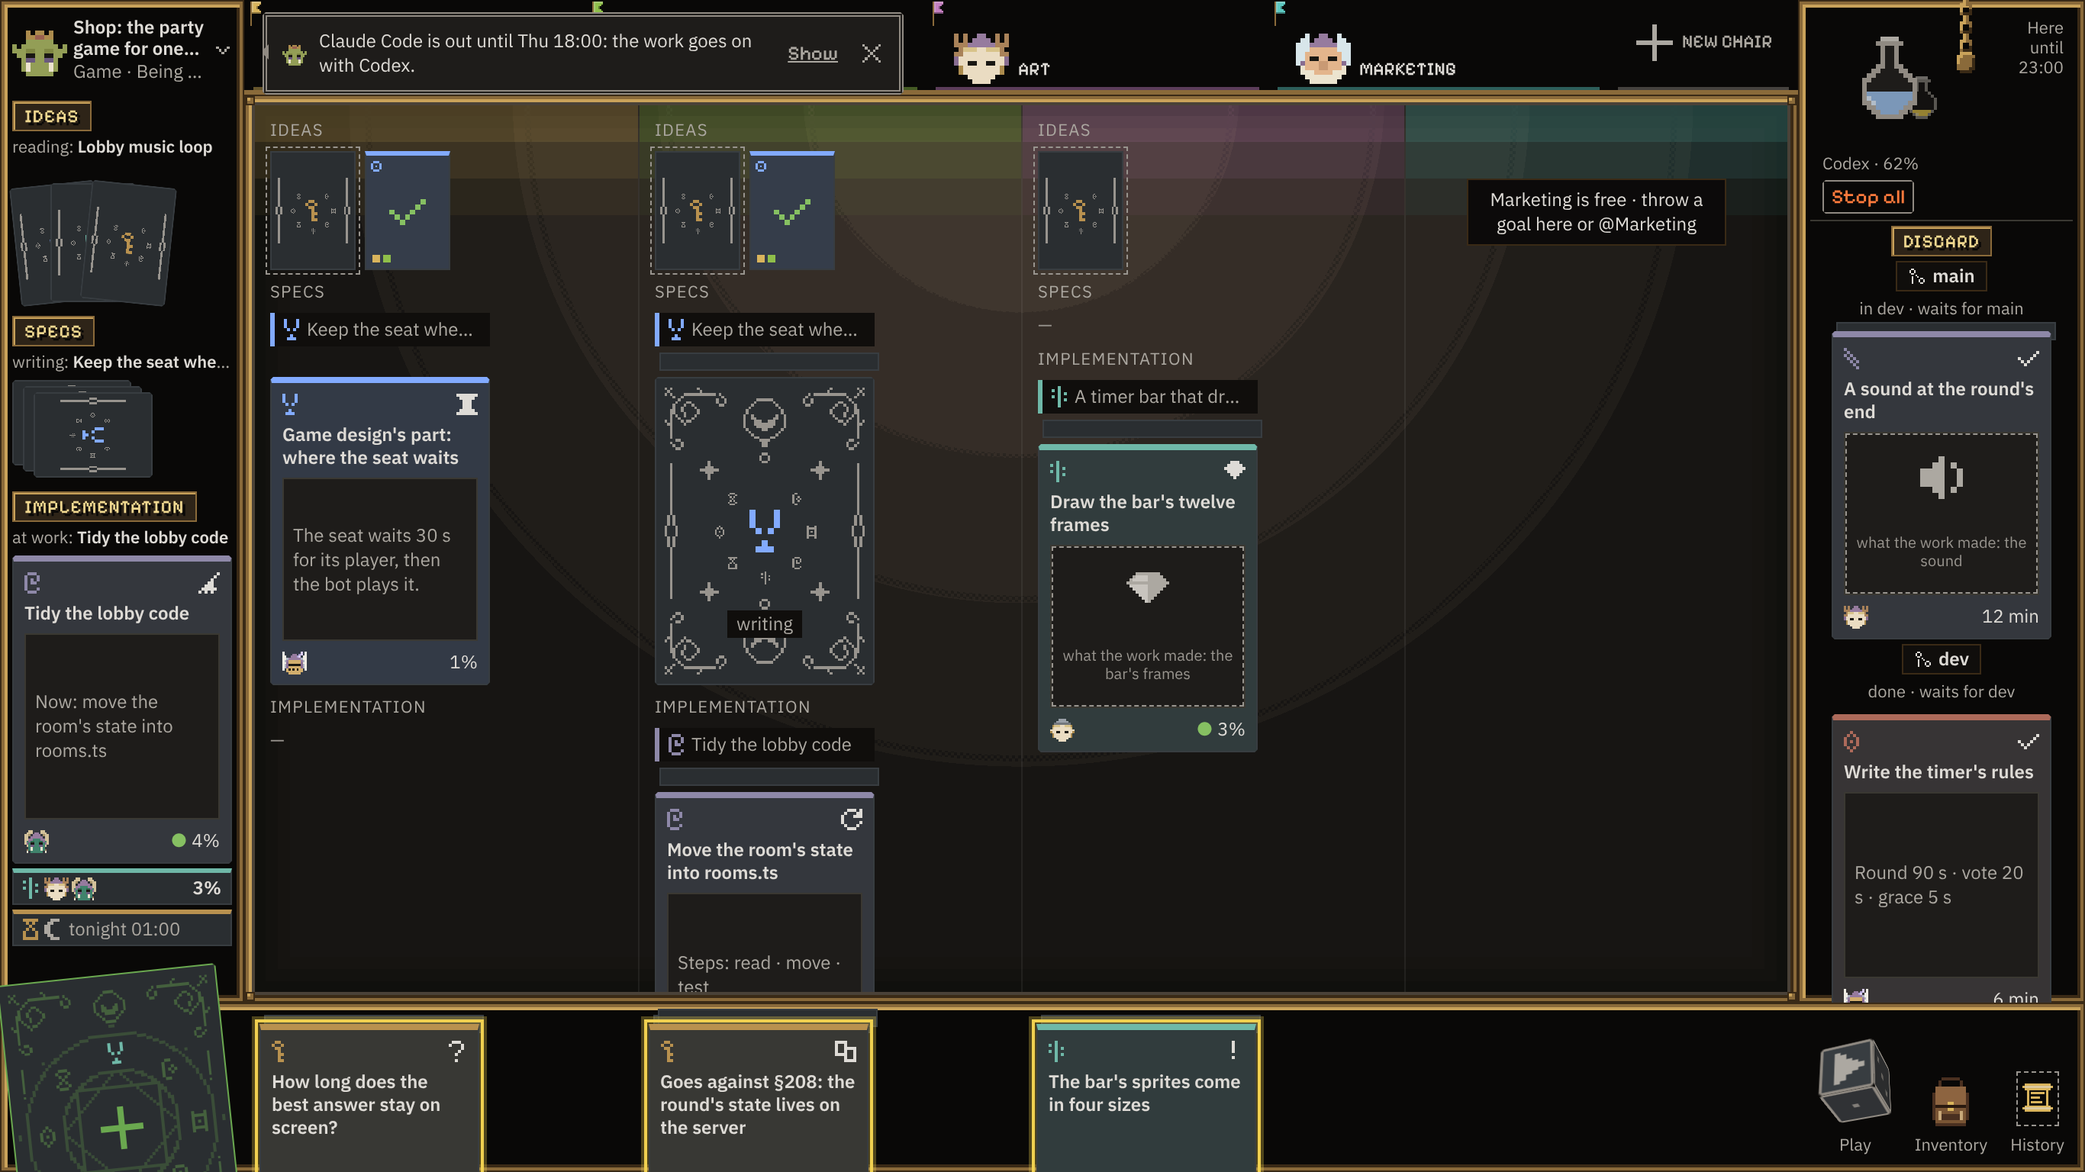
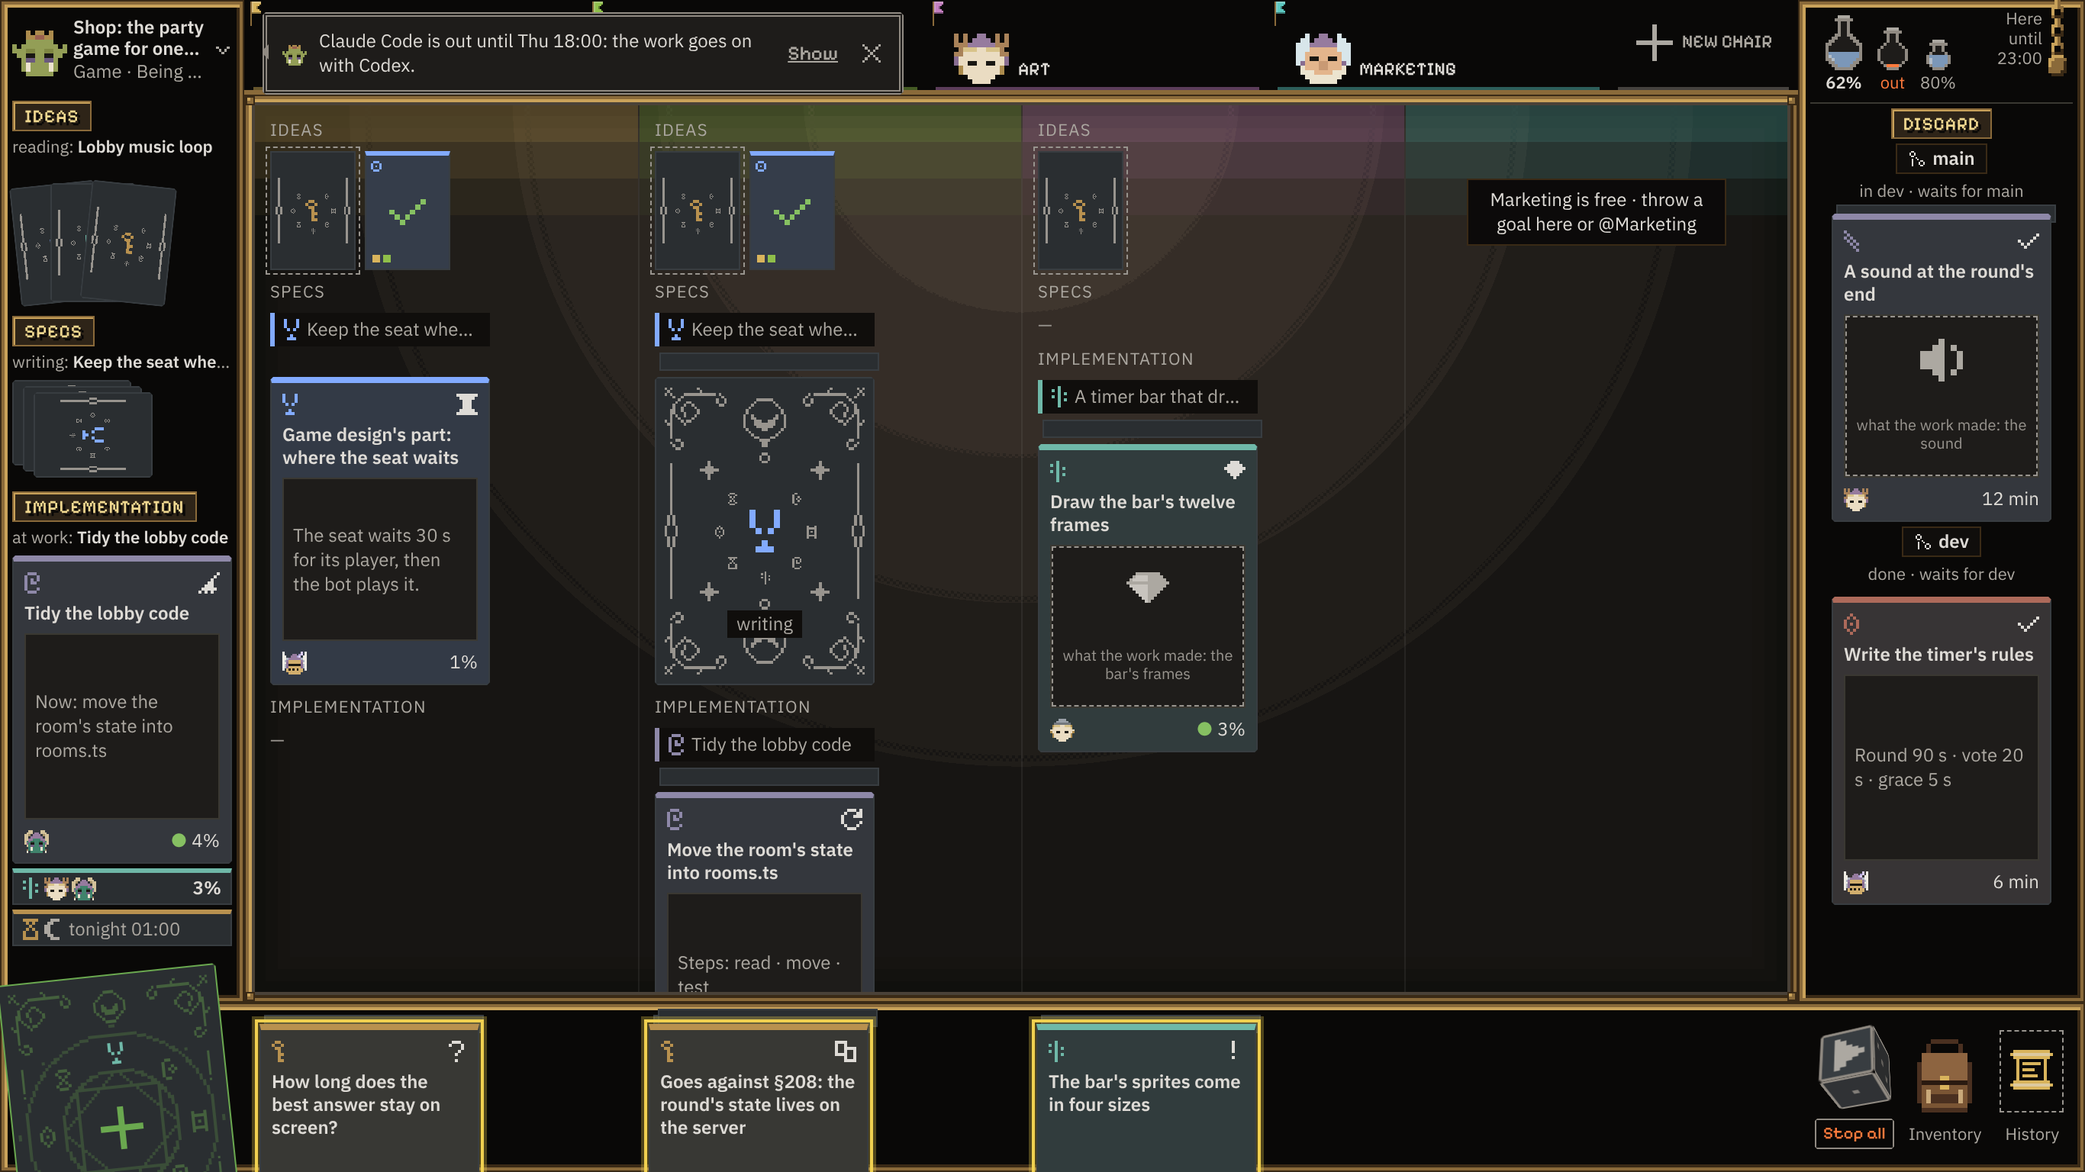
Decision §284 and the mockup as the owner picked it
An idea through a leader in one row of three groups; the small card's first
face; the potions in a row again at the right column's head with the lamp's
chain at its edge; Stop all the die's word again, lit while a card is lifted;
the die, the backpack and the book of one size. The mockup's shots made again;
CLAUDE.md's frame follows.

Claude-Session: https://claude.ai/code/session_01MCU3dkjk4VFQ6HDV7ojgAL

Changed region(s): [[0.8712, 0.0, 0.9956, 0.6875], [0.8712, 0.7188, 0.9956, 1.0]]

diff --git a/docs/mockups/table-template/table-template.js b/docs/mockups/table-template/table-template.js
@@ -170,10 +170,11 @@ function leaderTable() {   // §283.16.2: Tech's project: the header in three gr
 
 // ---- the right column (§283.7, §283.27): the head what never changes the table, then the discard's two piles ------------
 function rightColumn() {
-  const drum = `<span class="ork-drum" style="--ork-drum-front:0" aria-hidden="true"><span class="ork-potion" style="--ork-drum-at:0;--ork-potion-left:0.62"></span><span class="ork-potion size-medium is-warn" style="--ork-drum-at:1;--ork-potion-left:0.18"></span><span class="ork-potion size-small" style="--ork-drum-at:2;--ork-potion-left:0.8"></span></span>`;
+  // a row of potions again (§284.3): the bottle's size the week, its liquid the 5 hours (§192), its share now under it; three at most
+  const pot = (tool, left, share, cls = "") => `<figure class="pot${cls.includes("is-front") ? " is-front" : ""}" title="${tool}: ${share}"><span class="ork-potion small ${cls}" style="--ork-potion-left:${left}" aria-hidden="true"></span><figcaption>${share}</figcaption></figure>`;
+  const pots = `<div class="pots">${pot("Codex, where the work goes now", 0.62, "62%", "is-front")}${pot("Claude Code, back Thu 18:00", 0.02, "out", "size-medium is-danger")}${pot("Antigravity", 0.8, "80%", "size-small")}</div>`;
   return `<aside class="right bronze" aria-label="The discard">
-    <div class="rhead"><div class="rh-power">${drum}<span class="rh-share">Codex · 62%</span><button class="ork-btn stop" type="button">Stop all</button></div>
-      <div class="rh-lamp"><span class="ork-chain" aria-hidden="true"></span><span class="rh-here">Here<br>until 23:00</span></div></div>
+    <div class="rhead">${pots}<div class="rh-lamp"><span class="rh-here">Here<br>until 23:00</span><span class="ork-chain" aria-hidden="true"></span></div></div>
     <span class="ork-plaque disc">Discard</span>
     <div class="pile2"><button class="ork-plate branch" type="button" title="Where it goes: press to choose the branch">${icon("git-merge")}main</button><span class="pile2-line">in dev · waits for main</span>
       <div class="pile2-cards">${edges(1)}${big("sound", { kind: "check", title: G.sound.t, win: pic("sound", "what the work made: the sound"), who: head(L.art.head, "hd16"), much: "12 min" })}</div></div>
@@ -194,7 +195,8 @@ function hand(ways) {
   const plus = `<button class="ork-card ork-plus hplus" aria-label="New goal" title="New goal"><span class="ork-sigil" aria-hidden="true"><span class="ork-sigil__seal"><span class="ork-elem meadow" aria-hidden="true"></span></span></span>${icon("plus")}</button>`;
   const die = `<span class="ork-die small face-play" aria-hidden="true"><span class="ork-die__cube"><i class="ork-die__face is-up"></i><i class="ork-die__face is-front"></i><i class="ork-die__face is-right"></i><i class="ork-die__face is-back"></i><i class="ork-die__face is-left"></i><i class="ork-die__face is-down"></i></span></span>`;
   const book = `<span class="book" aria-hidden="true">${sign("page", "big")}</span>`;
-  const end = `<div class="h-end"><figure>${die}<figcaption>Play</figcaption></figure><figure><span class="ork-pack" aria-hidden="true"></span><figcaption>Inventory</figcaption></figure><figure>${book}<figcaption>History</figcaption></figure></div>`;
+  // the places, one size (§284.5); the die's word is Stop all while the orks work, live even while a card is lifted (§284.4)
+  const end = `<div class="h-end${ways ? " is-lifting" : ""}"><figure><span class="place">${die}</span><button class="ork-btn stop" type="button" title="Stop every run of this project's orks">Stop all</button></figure><figure><span class="place"><span class="ork-pack" aria-hidden="true"></span></span><figcaption>Inventory</figcaption></figure><figure><span class="place">${book}</span><figcaption>History</figcaption></figure></div>`;
   const row = `<div class="h-lanes lanes-grid${ways ? " is-sunk" : ""}">${ORDER.map((p) => `<div class="stack">${stacks[p] ? edges(p === "tech" ? 2 : 1) + stacks[p] : ""}</div>`).join("")}</div>`;
   return `<footer class="hand bronze${ways ? " has-ways" : ""}" aria-label="The hand"><div class="h-plus${ways ? " is-sunk" : ""}">${plus}</div>${row}${ways || ""}${end}</footer>`;
 }

diff --git a/docs/mockups/table-template/table-template.css b/docs/mockups/table-template/table-template.css
@@ -149,12 +149,14 @@ p { margin: 0; }
 
 /* ---- the right column: its head what never changes the table; the discard's two piles ---- */
 .right { grid-column: 3; grid-row: 1; display: flex; flex-direction: column; align-items: center; gap: 3px; padding: 0 8px 8px; overflow: hidden; }
-.rhead { flex: none; position: relative; align-self: stretch; display: flex; justify-content: space-between; min-height: 84px; padding: 6px 6px 4px 8px; border-bottom: 1px solid var(--ork-frame); }
-.rh-power { display: grid; justify-items: start; gap: 3px; }
-.rh-share { font: var(--ork-type-caption); font-size: 11px; color: var(--ork-ink-muted); }
-.ork-btn.stop { color: var(--ork-danger); padding: 0 6px; height: 22px; }
-.rh-lamp { display: flex; gap: 4px; align-items: flex-start; margin-top: -8px; }
-.rh-here { padding-top: 14px; font: var(--ork-type-caption); font-size: 11px; line-height: 13px; text-align: right; color: var(--ork-ink-muted); }
+.rhead { flex: none; position: relative; align-self: stretch; display: flex; justify-content: space-between; align-items: flex-start; min-height: 68px; padding: 6px 4px 4px 8px; border-bottom: 1px solid var(--ork-frame); }
+.pots { display: flex; gap: 6px; align-items: flex-end; padding-top: 4px; }
+.pot { margin: 0; display: grid; justify-items: center; gap: 2px; }
+.pot figcaption { font: var(--ork-type-caption); font-size: 11px; line-height: 13px; color: var(--ork-ink-muted); }
+.pot.is-front figcaption { color: var(--ork-ink); font-weight: 600; }
+.pot .is-danger + figcaption, .pot:has(.is-danger) figcaption { color: var(--ork-danger); }
+.rh-lamp { display: flex; gap: 4px; align-items: flex-start; margin-top: -6px; }
+.rh-here { padding: 6px 0 0 10px; font: var(--ork-type-caption); font-size: 11px; line-height: 13px; text-align: right; color: var(--ork-ink-muted); }
 .disc { font: var(--ork-type-heading); font-size: 12px; }
 .pile2 { flex: none; display: grid; justify-items: center; gap: 3px; }
 .branch { display: inline-flex; align-items: center; gap: 4px; font: var(--ork-type-label); padding: 2px 8px; border: 0; cursor: pointer; color: var(--ork-ink); }
@@ -171,11 +173,15 @@ p { margin: 0; }
 .stack { position: relative; padding: 12px 10px 0; }
 .stack .edges { margin-top: 2px; }
 .hc .hc-who { margin-top: auto; }
-.h-end { grid-column: 3; display: flex; justify-content: space-around; align-items: flex-end; padding: 0 6px 10px; }
+.h-end { grid-column: 3; display: flex; justify-content: space-around; align-items: flex-start; padding: 12px 6px 0; }
 .h-end figure { margin: 0; display: grid; justify-items: center; gap: 4px; }
-.h-end figcaption { font: var(--ork-type-caption); font-size: 11px; color: var(--ork-ink-muted); }
-.book { display: grid; place-items: center; width: 28px; height: 36px; border: 1px dashed var(--ork-ink-faint); color: var(--ork-gilt); }
-.book .ork-sign.big { width: 20px; height: 20px; }
+.h-end figcaption { font: var(--ork-type-caption); font-size: 11px; line-height: 20px; color: var(--ork-ink-muted); }
+.place { display: grid; place-items: end center; width: 48px; height: 60px; }
+.place .ork-pack { --_n: 3; }
+.ork-btn.stop { color: var(--ork-danger); padding: 0 6px; height: 20px; font-size: 11px; }
+.h-end.is-lifting .place, .h-end.is-lifting figcaption { filter: grayscale(1); opacity: 0.45; }
+.book { display: grid; place-items: center; width: 42px; height: 54px; border: 1px dashed var(--ork-ink-faint); color: var(--ork-gilt); }
+.book .ork-sign.big { width: 28px; height: 28px; }
 .is-sunk { filter: grayscale(1); opacity: 0.45; }
 .hand.has-ways .h-lanes.is-sunk { transform: scale(0.3); transform-origin: 100% 100%; }
 .ways { position: absolute; left: 170px; bottom: 0; height: 160px; display: flex; gap: 10px; align-items: flex-start; z-index: 7; }

diff --git a/docs/mockups/table-template/README.md b/docs/mockups/table-template/README.md
@@ -14,24 +14,24 @@ Pictures: `shots/`, made by `shoot.py`, each at 1366 × 768 (the laptop the deci
 
 | shot | scene | what it shows (§283) |
 |---|---|---|
-| `1-project`, `1-project-900` | `?scene=project` | **The Orkmaster's project**, with nothing picked (16.1): a lane for each leader, with the ideas it is assessing now as small cards, then its specs' cascade and its implementation's. The column's three piles (11–13): *Ideas* as a denser fan turned like a hand's, *Specs* as small cards on their side in a deck, *Implementation* as big cards with the feet of those behind (one held for the night, at the foot). The right column (7): its head holds the drum, *Stop all* and the lamp's chain; under it the discard's two piles, each under its branch's plate (27). The hand's right end holds the die, the backpack and the book. |
+| `1-project`, `1-project-900` | `?scene=project` | **The Orkmaster's project**, with nothing picked (16.1): a lane for each leader, with the ideas it is assessing now as small cards, then its specs' cascade and its implementation's. The column's three piles (11–13): *Ideas* as a denser fan turned like a hand's, *Specs* as small cards on their side in a deck, *Implementation* as big cards with the feet of those behind (one held for the night, at the foot). The right column (§284.3): its head holds the row of potions, each with its share now, and the lamp's chain with its words at the right edge; under it the discard's two piles, each under its branch's plate (27). The hand's right end holds the three places at one size, the die, the backpack and the book (§284.5), and *Stop all* is the die's word while the orks work (§284.4). |
 | `2-project-balloon` | `&balloon=1` | **The Orkmaster's news** (9): from its crown over the start of the tabs, *Show* and ×, never over the project's name. |
 | `3-idea-orkmaster` | `?scene=idea-om` | **An idea, through the Orkmaster** (16.3): the route and its price on a plate, with *Judge again now* (25); under each leader of the route a small card: ✓ face up, ! face up and asking, one face down while it assesses. Marketing, off the route, is grey. |
 | `4-idea-orkmaster-hover` | `&hover=1` | **A small card's preview** (4): the same card at 144 × 202 beside it. |
-| `5-idea-tech-groups` | `?scene=idea-leader` | **An idea, through Tech** (16.4) in **one row of three groups**: its verdict, *Needs your answer* (a conflict with §208, a risk), *Could be better* (*lighter*, *heavier*). |
-| `6-idea-tech-rows` | `&layout=rows` | The same in **three rows**, as §283.16.4 is worded: the third row falls under the hand at 1366 × 768, and the table has to scroll. |
-| `7-ask-tech` | `?scene=ask` | **The card in play at the table's foot** (19): Tech's conflict lifted to the table's foot at the left, its slot left dashed in its group; its ways are the hand, each a card cut by the rim (one risen, Tech's pick marked by its head), *Tech decides*, *Your own words…*, then *Open…* and *Put it back*. The rest of the hand sinks and goes grey. |
+| `5-idea-tech-groups` | `?scene=idea-leader` | **An idea, through Tech** (16.4) in **one row of three groups**, the owner's pick (§284.1): its verdict, *Needs your answer* (a conflict with §208, a risk), *Could be better* (*lighter*, *heavier*). |
+| `6-idea-tech-rows` | `&layout=rows` | The same in **three rows**, as §283.16.4 was worded: the third row falls under the hand at 1366 × 768, and the table has to scroll. Not taken. |
+| `7-ask-tech` | `?scene=ask` | **The card in play at the table's foot** (19): Tech's conflict lifted to the table's foot at the left, its slot left dashed in its group; its ways are the hand, each a card cut by the rim (one risen, Tech's pick marked by its head), *Tech decides*, *Your own words…*, then *Open…* and *Put it back*. The rest of the hand sinks and goes grey, the places too; *Stop all* stays lit and can be pressed (§284.4). |
 | `8-tech-project` | `?scene=leader` | **A leader's project** (16.2): the header's three groups (*At work*: ideas and specs face down, implementation face up; *Concerns*: one on a goal, one new with a +; *Ask*: the ? card), and under it the scheme, a concern marked on its part (rooms.ts) and a goal's reach (lobby.ts solid, timer.ts dashed). |
-| `9-small-face-b` | `&small=b` | **The small card's second face**: a kind's pip at the top right, the dots centred along the foot (the first face, `a`, has the dots at the bottom left). |
+| `9-small-face-b` | `&small=b` | **The small card's second face**: a kind's pip at the top right, the dots centred along the foot. Not taken: the owner picked the first face, `a`, with the dots at the bottom left (§284.2). |
 
 ## What it found
 
 - **The three rows of an idea through a leader do not fit** at 1366 × 768 (shot 6): 3 × 202 px of cards and their labels
   are taller than the table, so *Could be better* falls under the hand. One row of three groups fits with three cards to
   spare (shot 5). The owner picks; §283.16.4's wording follows the pick.
-- **The discard's two piles take the right column whole**: with the head at 84 px, the lower pile's card is cut by a few
-  pixels at 1366 × 768. Either the upper pile shows the feet of its cards (as *Implementation* does), or the head stays
-  this low.
+- **The discard's two piles took the right column whole** while the head held the drum and *Stop all* (84 px): the lower
+  pile's card was cut at 1366 × 768. With the row of potions and *Stop all* under the die (§284.3–4), the head is about 60 px
+  and both piles' cards lie whole.
 - **A back's notch clips the ring that says a card is picked, thinking or alerting** (orkUI's `.ork-card-back` has a
   `clip-path`). Those backs must lose the notch; the change belongs in orkUI.
 - **The small card reads by its colour band, rune and picture**. Both faces hold at 56 × 78. The dots are the weakest part:

diff --git a/docs/decisions.md b/docs/decisions.md
@@ -7932,3 +7932,34 @@ tables and the history (16.10, 16.11, 16.14, 16.15); **H.** the inventory (30–
 Orkmaster's project, an idea through the Orkmaster and through a leader, and the right column; the owner's pick.
 
 The owner's call.
+
+## 284. The table's template as the owner picked it: an idea through a leader in one row, the small card's first face, the potions in a row again, Stop all the die's word, the places of one size (9 November 2026, the owner)
+
+Changes: 283.7 (the right column's head and the hand's right end), 283.16.4 (three rows); 261.13 (the drum), 266.10 (Stop all
+above the potions); 261.12 is taken again.
+
+Why: the owner, on the mockup §283 asked to be drawn first (`docs/mockups/table-template/`): an idea through a leader in three
+rows does not fit a 1366 × 768 window (its third row falls under the hand, shot 6), while one row of three groups fits with room
+to spare (shot 5); and with the drum, *Stop all* and the chain in the right column's head, the discard's lower pile was cut. The
+owner: *one row; the first face; let us leave the drum and go back to a row of bottles, now there is room, so the chain and its
+words can move further right; the die, the inventory and the history of one size; and Stop all down, so there is more room up
+top for the discard*. So:
+1. **An idea through a leader is one row of three groups** (this changes §283.16.4's three rows): its verdict; *needs your
+   answer*; *could be better*, each group's cards side by side, at most three a group; the table scrolls only past that.
+2. **The small card's face is the first one**: the rune in its top left corner, the dots of its parties in its bottom left, its
+   picture in its middle (§283.3); no kind's pip.
+3. **The potions stand in a row again** at the right column's head (this changes §283.7 and §261.13's drum): a bottle for each AI
+   tool, its size the week and its liquid the 5 hours (§192), its share now under it (§247.3), a tool at the warn or the danger
+   level in that level's colour with its words (*out*, §262.1); the tool the open tab's work goes to is the one whose share is
+   said in the ink. **Three at most stand in the row**: the one the work goes to now, then any at the warn or the danger level,
+   then the person's order; hovered or focused, the row shows them all with *back 14:00* and the empty slot at its end (§232.4).
+   Nothing the person does reorders it. **The lamp's chain stands at the head's right edge**, its words beside it (§271.1).
+4. **Stop all is the die's word again** (§261.12 taken again; this changes §266.10 and §283.7): under the die, *Stop all* while
+   the orks work, *Resume* after it, else nothing (the die is Play's). **It stays lit and can be pressed while a card is lifted**,
+   when the rest of the hand and the places sink (§270.3): the one thing in the hand that never sinks, since it is safety.
+5. **The places are of one size**: the die, the backpack and the book each stand in a box of 48 × 60 at the hand's right end, the
+   die at orkUI's `.small`, the backpack at 3 px a cell, the book drawn in orkUI at the same; each with its word under it but the
+   die, whose word is 4's.
+6. The mockup shows it (`docs/mockups/table-template/`, its shots made again).
+
+The owner's call.

diff --git a/CLAUDE.md b/CLAUDE.md
@@ -22,9 +22,9 @@ other way round**: nothing here imports Orkline's package (`orkcraft`).
   buttons, never for a person's words.
 - **The frame** (decisions §104.0, §145): the window is two parts, the table (the leaders' tabs and the pane: *what and
   why*, through whose eyes, the goals in line in its first lane) and the hand (*what the person decides*, under the
-  lanes, with the places at its right: the die, the backpack, the history book); the discard of goals done stands beside the
-  table, at the window's right, in two piles (for dev, for main), its head what never changes the table: the lamp's chain, the
-  AI tools' mana, Stop all (decisions §273, §283); a goal is on the table, in the hand or in the discard (decisions §167, §176); Release is a craft as any,
+  lanes, with the places at its right: the die, its word *Stop all* while the orks work, the backpack, the history book); the
+  discard of goals done stands beside the table, at the window's right, in two piles (for dev, for main), its head what never
+  changes the table: the AI tools' mana in a row and the lamp's chain (decisions §273, §283, §284); a goal is on the table, in the hand or in the discard (decisions §167, §176); Release is a craft as any,
   To main the person's act from the discard after the gate's tests (decisions §274). The Orkmaster says what and who, a
   party's leader how, what changes and why, a member does (and asks only its leader). New faces keep to it: no list
   column (the Orkmaster's column is the first lane pinned, whole cards: decisions §206), no drawer, no count of what waits, no
